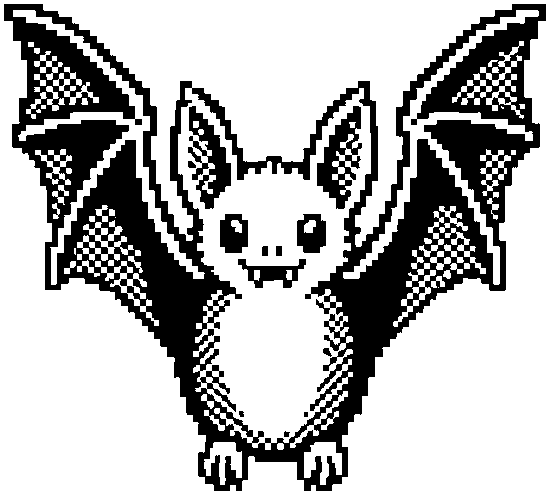
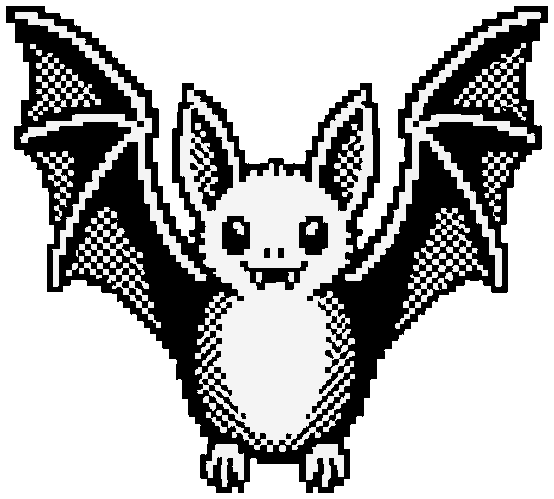
v85: solid bats, smaller and quicker; the gallery floor grate drops too
- the bat sprites were cut with ink-only alpha, so the room's dither showed
  straight through their bodies. Re-cut them by flooding the background in from
  the border: everything the flood can't reach is the bat, so the silhouette is
  now opaque (ink black, body paper) and ONLY the surrounding background is
  transparent.
- bats: smaller (74-110 vs 128-190), quicker (3.0-4.5 laps in 5.2s, was 1.6-2.5
  in 7.6s) and flapping roughly twice as fast (17-24Hz)
- the 2017 second gallery's floor grate now makes the street grate's hollow
  sinkhole drop

diff --git a/world.js b/world.js
@@ -463,7 +463,8 @@ const cards = {
   "y17b": { id:"y17b", img:V+"gallery-c.png", tone:"ink", room:"y17", ambient:"room",
     nav:{ left:"y17a", back:"rotunda" },
     frames:[{ song:"casino", r:[252,576,168,240], plate:[312,940,72,22] },{ song:"wondering", r:[630,534,270,294], plate:[728,950,71,23] },{ song:"i-can-do-it-all", r:[1104,576,174,240], plate:[1174,940,73,22] }],
-    hots: bulbHots([[315,111],[1218,111]]),
+    hots: [ { r:[78,1325,295,170], cur:"hand", fn:"streetGrate" },   // the floor grate — same drop as the street's
+            ...bulbHots([[315,111],[1218,111]]) ],
     draw(ctx,H,S,t){ } },
 
   "late-a": { id:"late-a", img:V+"gallery-d.png", tone:"ink", room:"late", ambient:"room",
@@ -737,14 +738,14 @@ const ACTIONS = {
         cy:  430 + Math.random()*190,
         rx:  300 + Math.random()*210,
         ry:  150 + Math.random()*100,
-        turns: 1.6 + Math.random()*0.9,
+        turns: 3.0 + Math.random()*1.5,          // more laps, so they really move
         dir: Math.random() < 0.5 ? 1 : -1,
-        lag: Math.random()*0.10,                 // stagger the entrances
-        flap: 9 + Math.random()*4,               // wingbeats per second
-        sz:  128 + Math.random()*62,
+        lag: Math.random()*0.09,                 // stagger the entrances
+        flap: 17 + Math.random()*7,              // wingbeats per second
+        sz:  74 + Math.random()*36,
       });
     }
-    const DUR = 7600;
+    const DUR = 5200;
     const ss = (a,b,x)=>{ const k=Math.max(0,Math.min(1,(x-a)/(b-a))); return k*k*(3-2*k); };
     H.anim("rotunda", DUR, (ctx,k)=>{
       for (const b of bat) {

diff --git a/index.html b/index.html
@@ -10,7 +10,7 @@
 <link rel="preconnect" href="https://fonts.googleapis.com">
 <link rel="preconnect" href="https://fonts.gstatic.com" crossorigin>
 <link rel="stylesheet" href="https://fonts.googleapis.com/css2?family=Courier+Prime:ital,wght@0,400;0,700;1,400&family=Special+Elite&display=swap">
-<link rel="stylesheet" href="styles.css?v=84">
+<link rel="stylesheet" href="styles.css?v=85">
 </head>
 <body class="cur-arrow">
   <canvas id="stage"></canvas>
@@ -75,10 +75,10 @@
   setTimeout(function () { window.LOADER && window.LOADER.bail(); }, 15000);  // never strand a visitor
   </script>
 
-  <script src="gbfilter.js?v=84"></script>
-  <script src="world.js?v=84"></script>
-  <script src="viz.js?v=84"></script>
-  <script src="audio.js?v=84"></script>
-  <script src="engine.js?v=84"></script>
+  <script src="gbfilter.js?v=85"></script>
+  <script src="world.js?v=85"></script>
+  <script src="viz.js?v=85"></script>
+  <script src="audio.js?v=85"></script>
+  <script src="engine.js?v=85"></script>
 </body>
 </html>